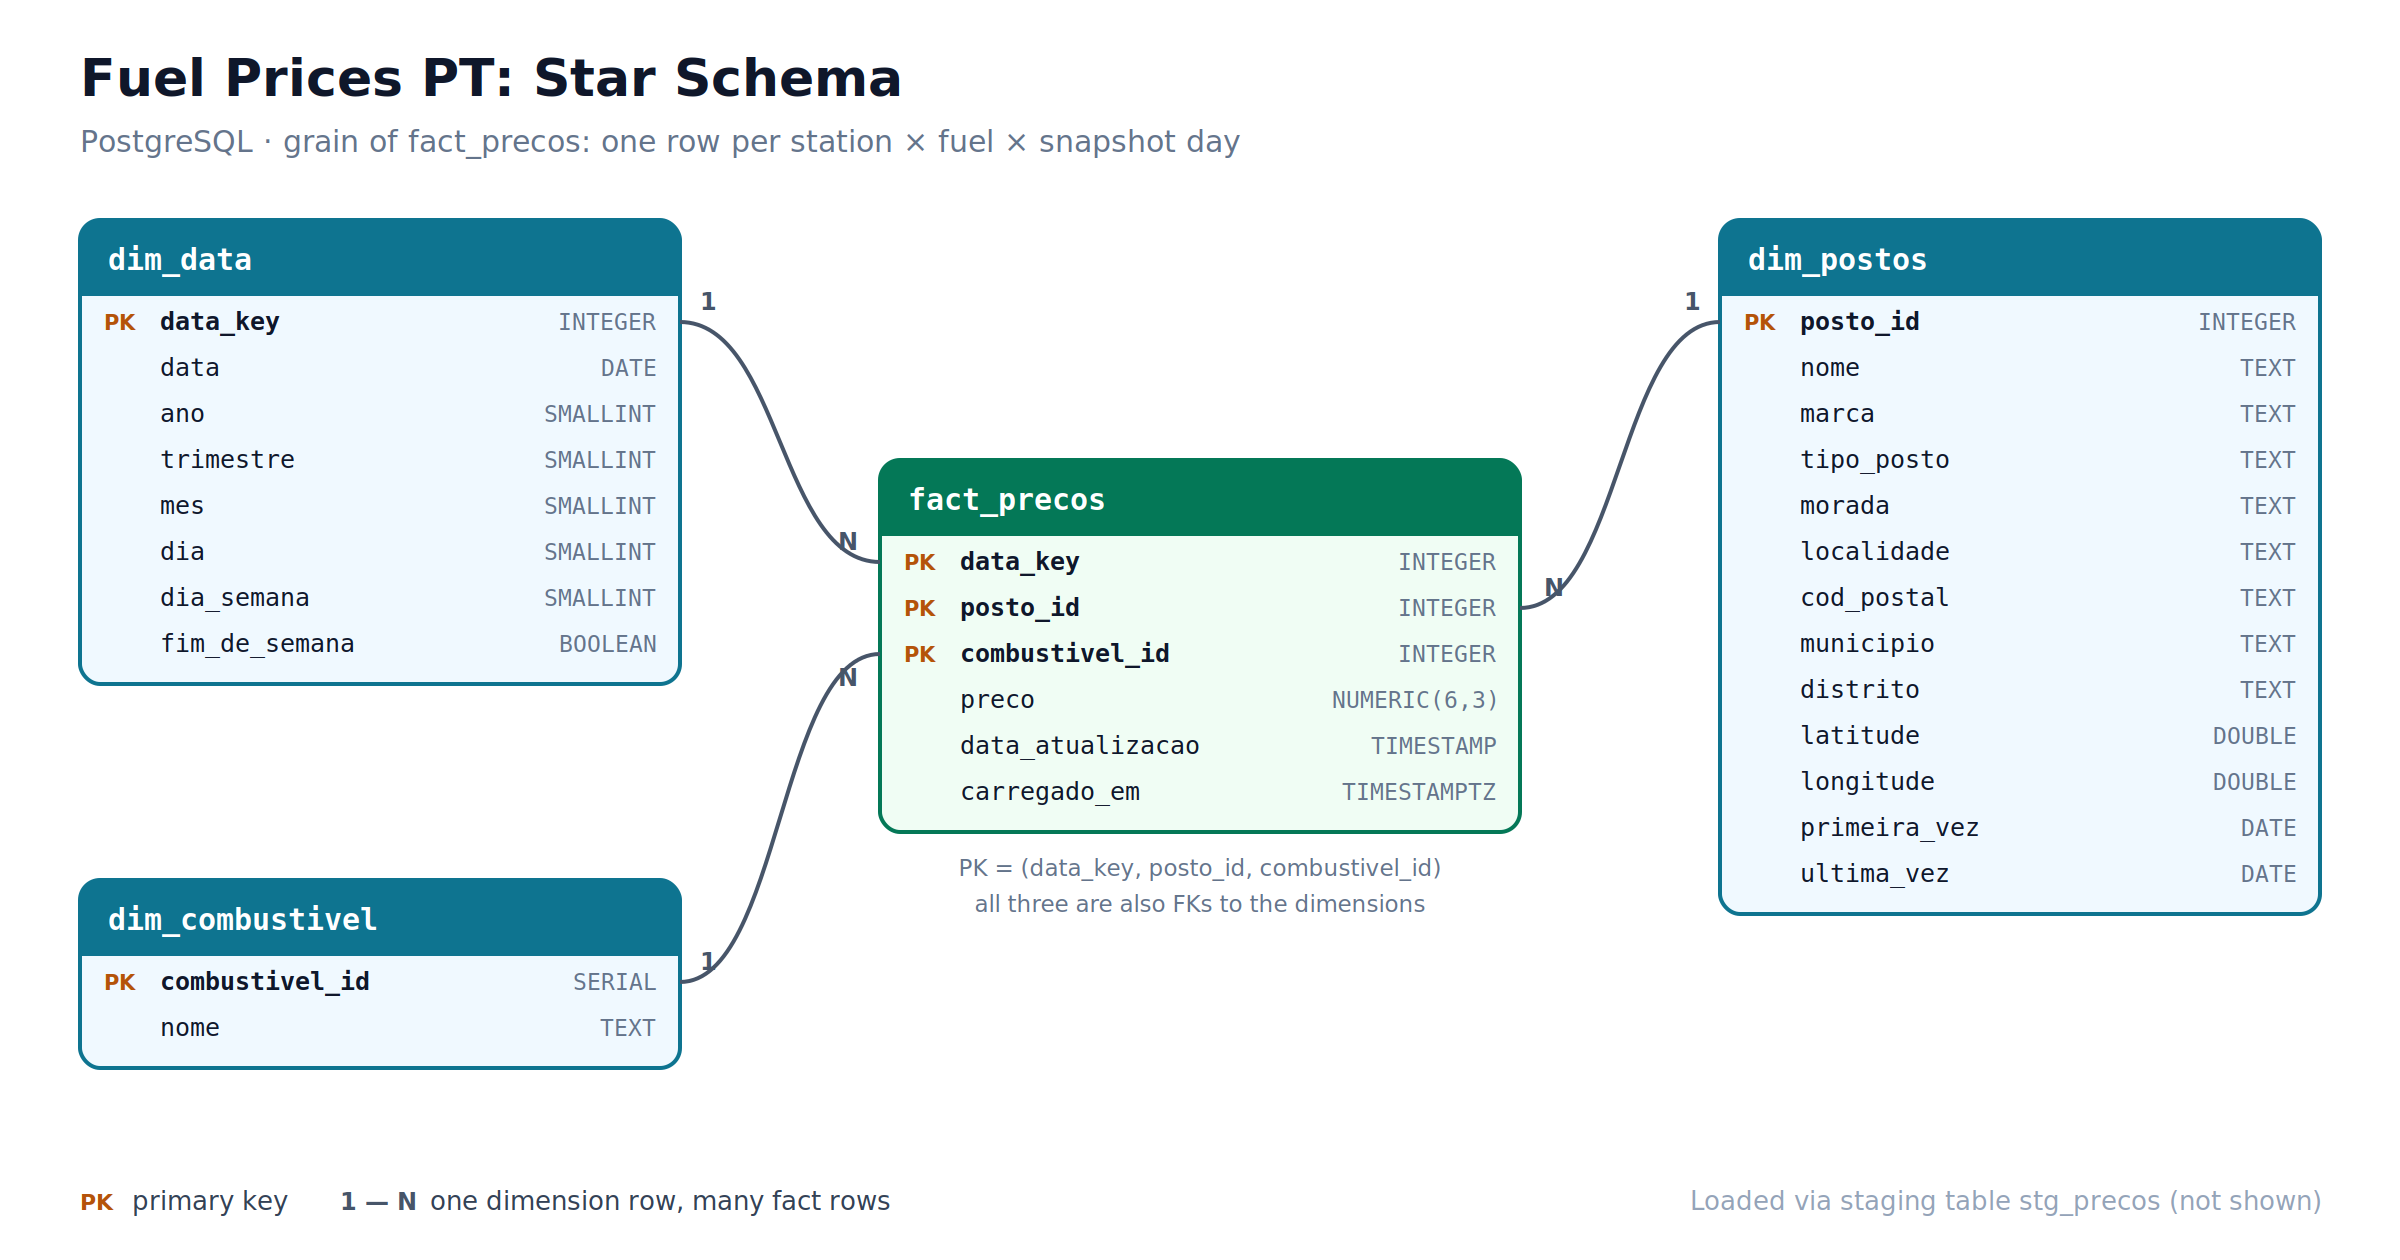
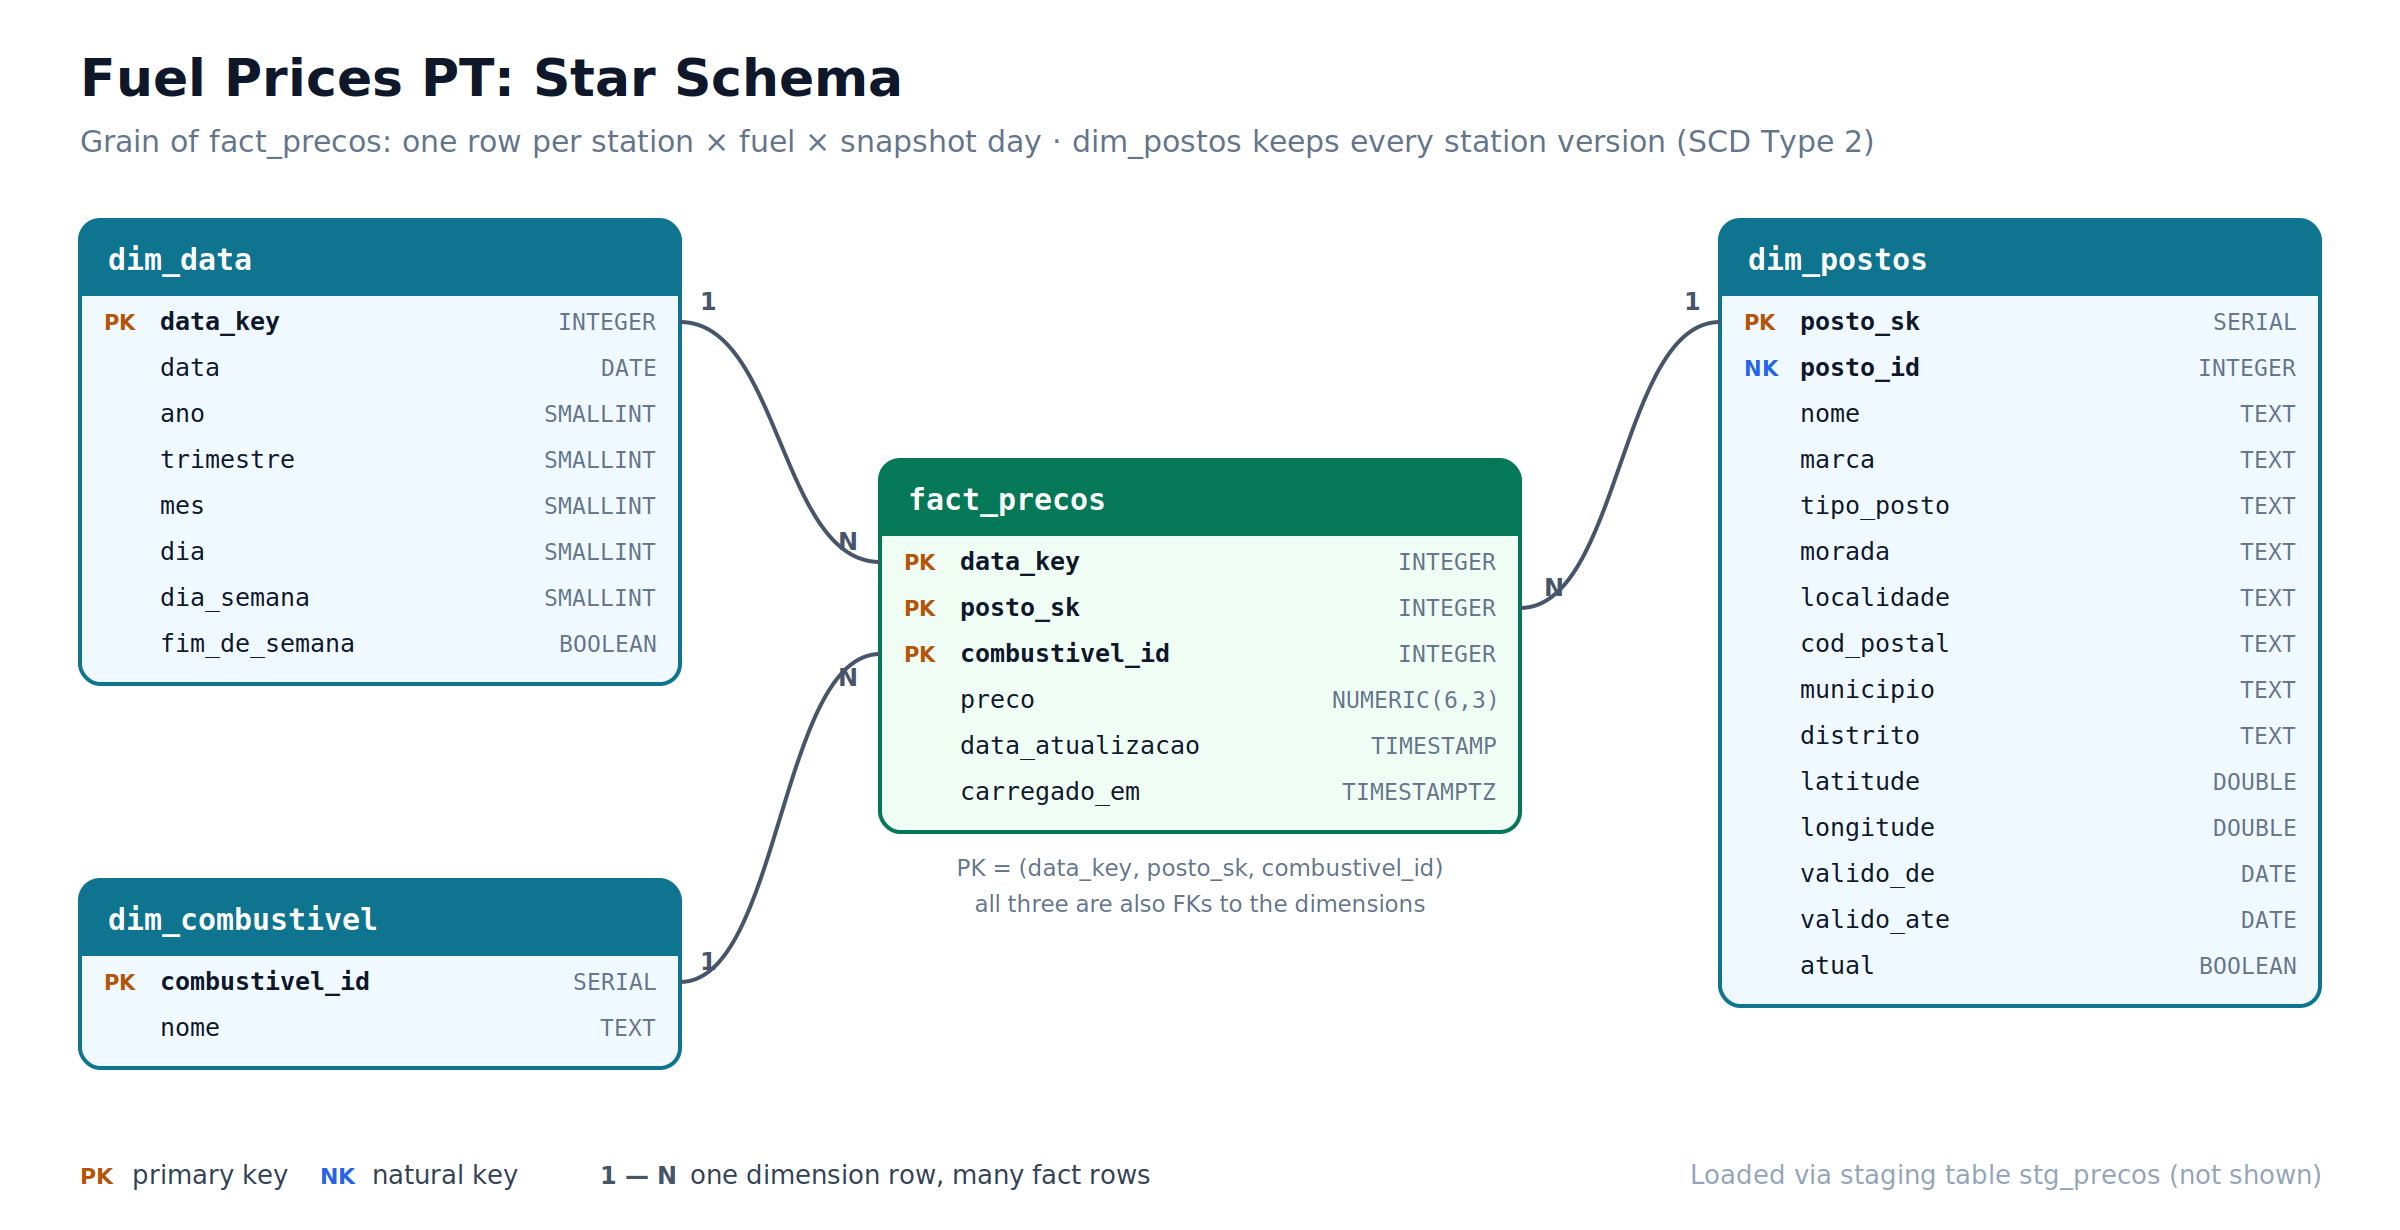
Document SCD Type 2, view and data quality notes

diff --git a/README.md b/README.md
@@ -90,14 +90,31 @@ A **star schema** in PostgreSQL, defined in [`sql/schema.sql`](sql/schema.sql):
 
 | Table | One row = | Key |
 |---|---|---|
-| `fact_precos` | one station × fuel × snapshot day | (`data_key`, `posto_id`, `combustivel_id`) |
-| `dim_postos` | one station | DGEG station `Id` |
+| `fact_precos` | one station × fuel × snapshot day | (`data_key`, `posto_sk`, `combustivel_id`) |
+| `dim_postos` | one **version** of a station (SCD Type 2) | generated `posto_sk`; DGEG's `Id` kept as `posto_id` |
 | `dim_combustivel` | one fuel type | generated ID |
 | `dim_data` | one calendar day | integer date, e.g. `20261004` |
 
 `fact_precos` is a **periodic snapshot fact table**: every station's price is recorded every day, even when it hasn't changed, so "what was the price on day X?" is a simple lookup.
 
 The day's rows are bulk-copied (`COPY`) into the staging table, then [`sql/load_from_staging.sql`](sql/load_from_staging.sql) loads the dimensions first and the fact table second.
+
+### Station history: SCD Type 2
+
+Stations change: a GALP becomes a PRIO, a station is renamed or moves. `dim_postos` is a **slowly changing dimension (Type 2)**: instead of overwriting a station's details, it closes the old row and adds a new **version**, so every price keeps the details that were true on its day.
+
+| posto_sk | posto_id | marca | valido_de | valido_ate | atual |
+|---|---|---|---|---|---|
+| 1 | 94625 | GALP | 2026-09-27 | 2026-10-03 | false |
+| 3 | 94625 | PRIO | 2026-10-04 | 9999-12-31 | true |
+
+*(illustrative example)*
+
+- **Surrogate and natural keys.** `posto_sk` is generated, one per version, and is what the fact table points to. `posto_id` is DGEG's own station `Id`, shared by all versions of a station.
+- **Change detection.** Each run compares the incoming details with the current version, column by column, using `IS DISTINCT FROM` so that missing values (NULL) compare as equal instead of triggering false changes.
+- **Point-in-time lookup.** Each price is linked to the version valid on its snapshot day: `snapshot_date BETWEEN valido_de AND valido_ate`.
+- **Enforced in the database.** A partial unique index allows at most one current version (`atual`) per station.
+- **Known limits.** Snapshots must be loaded in date order (daily runs are; `backfill.py` sorts its files), and a change is dated to the first snapshot that shows it, so precision is one day.
 
 ### Design decisions
 
@@ -106,19 +123,18 @@ The day's rows are bulk-copied (`COPY`) into the staging table, then [`sql/load_
 - **Dimensions before facts.** Foreign keys guarantee every price points to an existing station, fuel and date.
 - **Two dates per price.** `data_key` is when the pipeline captured the price; `data_atualizacao` is when the station last changed it. An old `data_atualizacao` flags a possibly stale price.
 - **Exact prices.** Prices are `NUMERIC(6,3)`, not floating point, so values are stored exactly.
-- **Station changes overwrite (SCD Type 1).** `dim_postos` keeps the latest details of each station, plus `primeira_vez` / `ultima_vez`, the first and latest day it appeared. A station whose `ultima_vez` stops advancing has probably closed.
 - **Append-only bronze layer.** Each run adds a new dated CSV and never edits old ones.
 
 ### Example query
 
-Average simple diesel price per district, on the latest day loaded:
+Average simple diesel price per district, on the latest day loaded, written against the star schema:
 
 ```sql
 SELECT p.distrito,
        ROUND(AVG(f.preco), 3) AS preco_medio,
        COUNT(*)               AS postos
 FROM fact_precos f
-JOIN dim_postos      p USING (posto_id)
+JOIN dim_postos      p USING (posto_sk)
 JOIN dim_combustivel c USING (combustivel_id)
 WHERE c.nome = 'Gasóleo simples'
   AND f.data_key = (SELECT MAX(data_key) FROM fact_precos)
@@ -126,9 +142,21 @@ GROUP BY p.distrito
 ORDER BY preco_medio;
 ```
 
-### Text encoding
+The same question through the view [`vw_precos`](sql/views.sql), which joins the star schema into one readable table:
 
-All files and tables use **UTF-8**, so Portuguese characters (`ç`, `ã`, `ó`...) are stored exactly as DGEG sends them. Excel on Windows doesn't assume UTF-8 when a CSV is double-clicked and may show `Ã§` instead of `ç`. The data is correct: open the file with **Data → From Text/CSV** and choose **65001: Unicode (UTF-8)** as the file origin.
+```sql
+SELECT distrito, ROUND(AVG(preco), 3) AS preco_medio, COUNT(*) AS postos
+FROM vw_precos
+WHERE combustivel = 'Gasóleo simples'
+  AND data = (SELECT MAX(data) FROM vw_precos)
+GROUP BY distrito
+ORDER BY preco_medio;
+```
+
+### Data quality notes
+
+- **Stale prices.** `data_atualizacao` shows that a handful of prices haven't been changed by their station in over a year (16 of 13,627 rows on 2026-10-04, the oldest from August 2024). They are kept in the warehouse exactly as DGEG reports them; deciding what is too old to trust is left to the analysis layer.
+- **Text encoding.** All files and tables use **UTF-8**, so Portuguese characters (`ç`, `ã`, `ó`...) are stored exactly as DGEG sends them. Excel on Windows doesn't assume UTF-8 when a CSV is double-clicked and may show `Ã§` instead of `ç`. The data is correct: open the file with **Data → From Text/CSV** and choose **65001: Unicode (UTF-8)** as the file origin.
 
 ## Roadmap
 
@@ -139,6 +167,7 @@ All files and tables use **UTF-8**, so Portuguese characters (`ç`, `ã`, `ó`..
 - [x] Modular ETL in Python (requests, pandas)
 - [x] Daily, dated CSV snapshots
 - [x] PostgreSQL star schema with idempotent loads
+- [x] Station history with SCD Type 2
 - [x] Hosted PostgreSQL (Neon) + daily scheduling with GitHub Actions
 - [ ] Streamlit dashboard
 
@@ -163,7 +192,9 @@ All files and tables use **UTF-8**, so Portuguese characters (`ç`, `ã`, `ó`..
 │   └── load.py                 # bronze CSV + PostgreSQL load
 ├── sql/
 │   ├── schema.sql              # star schema: tables, keys, constraints
-│   └── load_from_staging.sql   # staging → dimensions → fact table
+│   ├── load_from_staging.sql   # staging → dimensions (SCD Type 2) → fact table
+│   ├── views.sql               # vw_precos: star schema joined for reading
+│   └── dashboard_role.sql      # permissions for a read-only dashboard user
 ├── pipeline.py                 # runs the full ETL
 ├── backfill.py                 # loads existing raw CSVs into PostgreSQL
 ├── notebooks/                  # initial API exploration
@@ -201,6 +232,7 @@ Use a local PostgreSQL or a hosted one such as Neon. Create a database, then the
 ```bash
 psql -U postgres -c "CREATE DATABASE fuel_prices ENCODING 'UTF8';"   # local only
 psql "<your connection string>" -f sql/schema.sql
+psql "<your connection string>" -f sql/views.sql
 ```
 
 Copy `.env.example` to `.env` and fill in your connection settings. For a hosted database, include `PGSSLMODE=require`.
